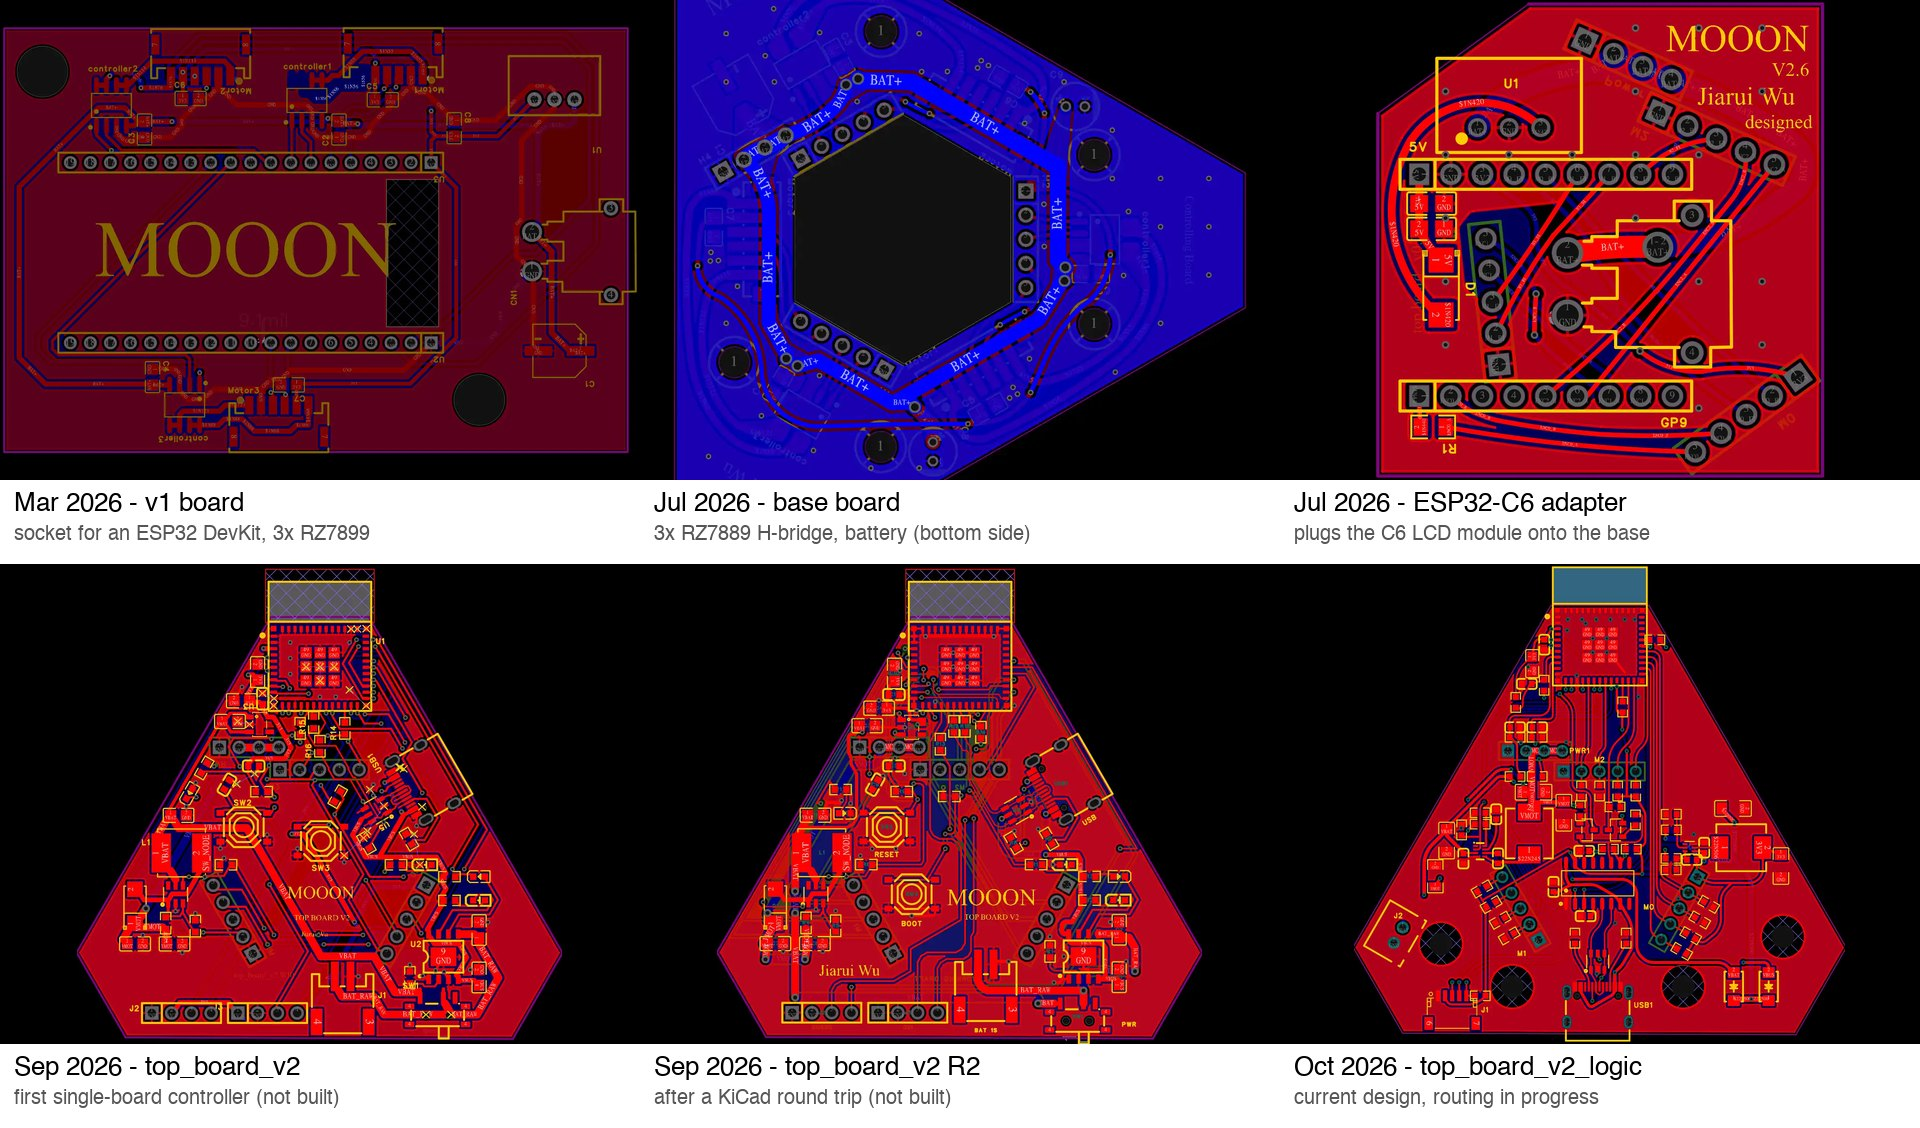
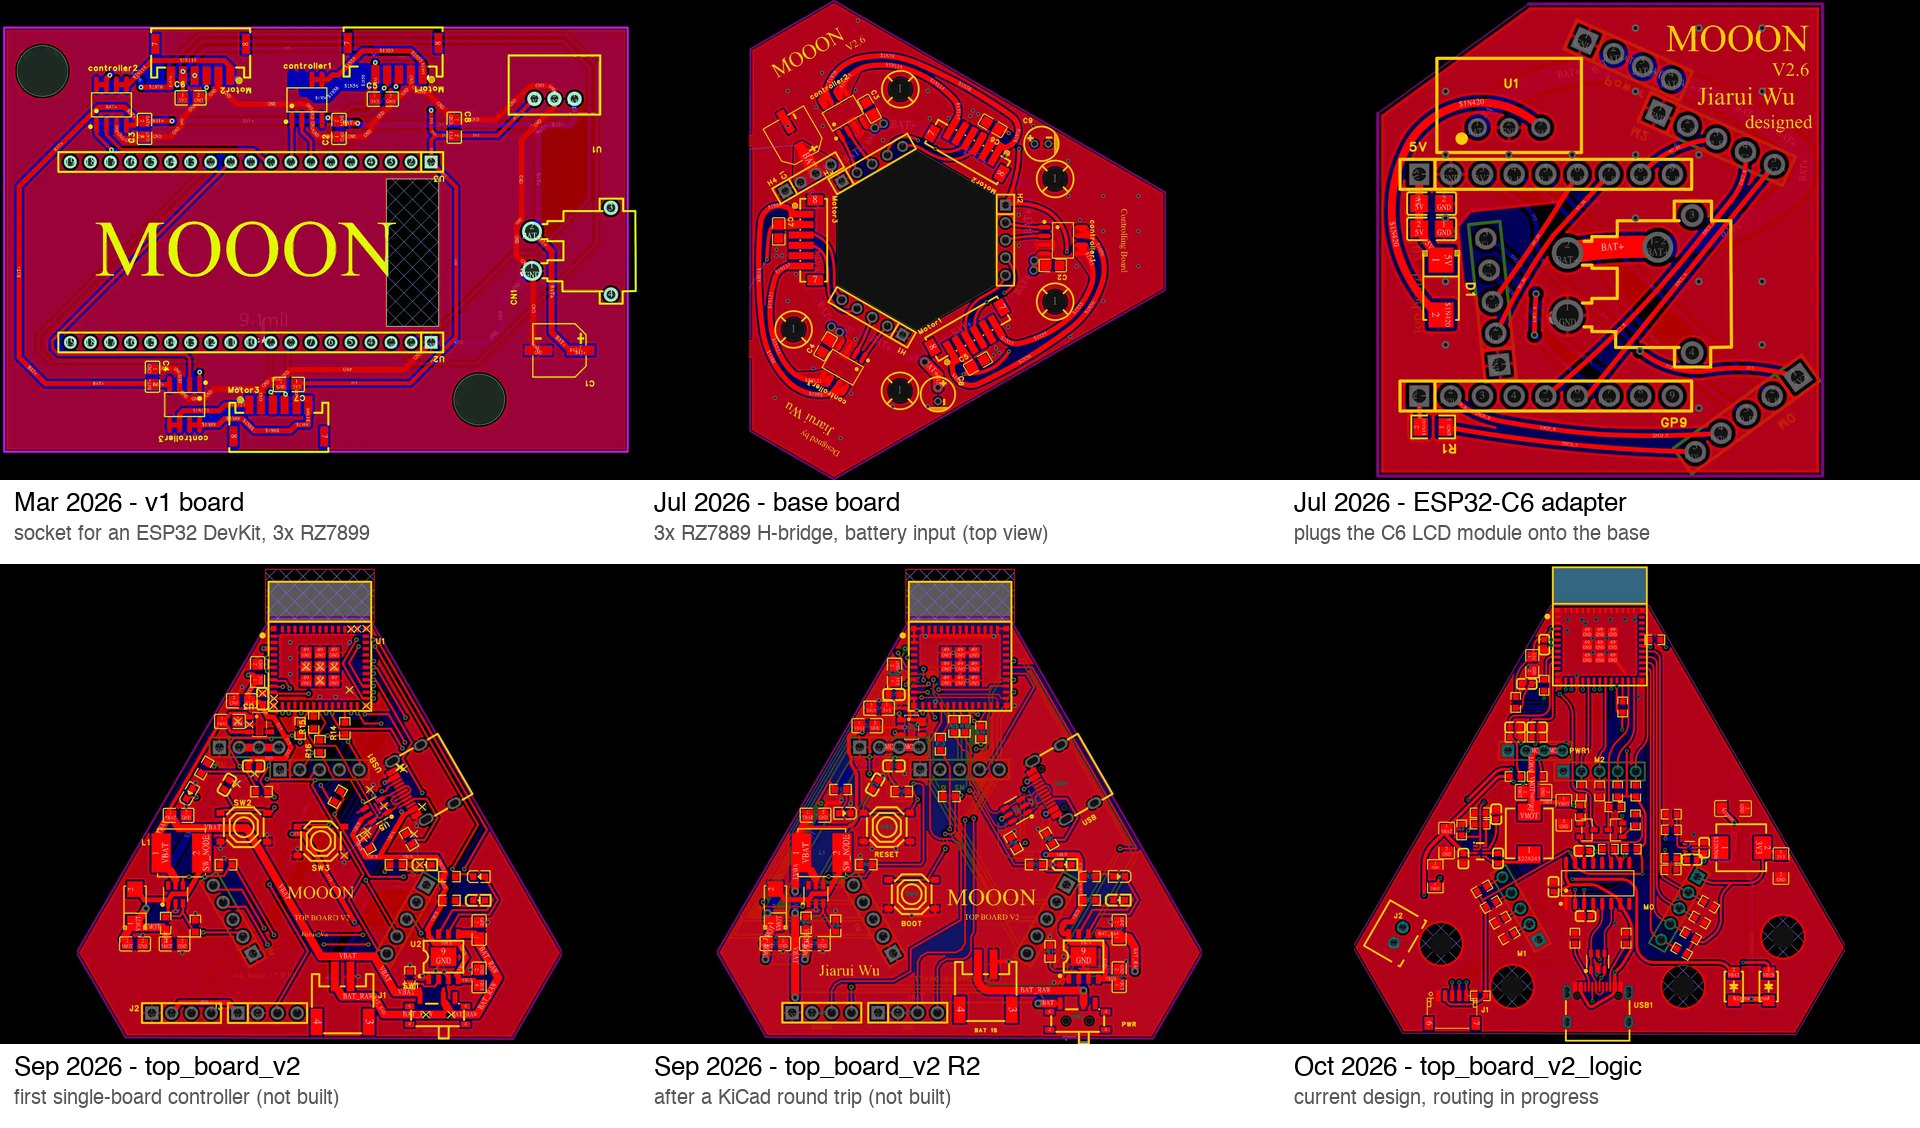
docs: clearer design-history figures
- CAD: re-rendered every Onshape version with showAllParts, so parts
  hidden when a version was saved are visible. The base board was
  already in V6, so the "workspace" panel is dropped; five distinct
  versions remain.
- PCBs: the v1 board preview (saved with inactive layers greyed out)
  gets an auto-contrast; the base board now shows its top view, cropped
  from the fabrication panel, instead of its bottom-view preview.

Changed region(s): [[0.0, 0.0, 0.6562, 0.4344], [0.4688, 0.4654, 0.5625, 0.4965]]

diff --git a/docs/design-history/make_figures.py b/docs/design-history/make_figures.py
@@ -13,7 +13,7 @@ import os
 import subprocess
 import zipfile
 
-from PIL import Image, ImageDraw, ImageFont
+from PIL import Image, ImageDraw, ImageFont, ImageOps
 
 HERE = os.path.dirname(os.path.abspath(__file__))
 ROOT = os.path.dirname(os.path.dirname(HERE))
@@ -22,13 +22,16 @@ FONT = "/System/Library/Fonts/Helvetica.ttc"
 
 # EasyEDA document ids in project "motor_controller"
 LOGIC_PCB, LOGIC_SCH = "d66fa5125fd977da", "047e235f224c2688"
-FAMILY = [  # (document id, caption, sub-caption)
-    ("713d18881d67b0a9", "Mar 2026 - v1 board", "socket for an ESP32 DevKit, 3x RZ7899"),
-    ("a7681f7930a373e5", "Jul 2026 - base board", "3x RZ7889 H-bridge, battery (bottom side)"),
-    ("29868d186e4fc126", "Jul 2026 - ESP32-C6 adapter", "plugs the C6 LCD module onto the base"),
-    ("c2976160f80574ea", "Sep 2026 - top_board_v2", "first single-board controller (not built)"),
-    ("1451795a9a99c5a7", "Sep 2026 - top_board_v2 R2", "after a KiCad round trip (not built)"),
-    (LOGIC_PCB, "Oct 2026 - top_board_v2_logic", "current design, routing in progress"),
+FAMILY = [  # (document id, caption, sub-caption, crop box in preview pixels, auto-contrast)
+    # The v1 preview was saved with inactive layers greyed out, so its contrast is stretched.
+    ("713d18881d67b0a9", "Mar 2026 - v1 board", "socket for an ESP32 DevKit, 3x RZ7899", None, True),
+    # The base board's own preview is a bottom view; its top view comes from the fab panel ("combine").
+    ("3e97c5cee5cd5d26", "Jul 2026 - base board", "3x RZ7889 H-bridge, battery input (top view)",
+     (752, 40, 1830, 1300), False),
+    ("29868d186e4fc126", "Jul 2026 - ESP32-C6 adapter", "plugs the C6 LCD module onto the base", None, False),
+    ("c2976160f80574ea", "Sep 2026 - top_board_v2", "first single-board controller (not built)", None, False),
+    ("1451795a9a99c5a7", "Sep 2026 - top_board_v2 R2", "after a KiCad round trip (not built)", None, False),
+    (LOGIC_PCB, "Oct 2026 - top_board_v2_logic", "current design, routing in progress", None, False),
 ]
 EVOLUTION = [  # (commit, short caption)
     ("170676d", "imported; schematic redrawn on one A3 sheet"),
@@ -100,7 +103,14 @@ def main():
     latest = previews(head)
     load = lambda data: Image.open(io.BytesIO(data)).convert("RGB")
 
-    cells = [(crop_dark(load(latest[i])), t, s) for i, t, s in FAMILY]
+    cells = []
+    for i, title, sub, box, stretch in FAMILY:
+        im = load(latest[i])
+        if box:
+            im = im.crop(box)
+        if stretch:
+            im = ImageOps.autocontrast(im, cutoff=0.5)
+        cells.append((crop_dark(im), title, sub))
     grid(cells, 3, 640, 480, 84, "black", os.path.join(HERE, "board-generations.jpg"))
 
     cells = []

diff --git a/docs/design-history/README.md b/docs/design-history/README.md
@@ -38,19 +38,20 @@ The robot is modelled in an Onshape document named "WhiteBoardBot", created on
 2026-02-08. Onshape timestamps every named version on its own servers, so
 these dates cannot be edited afterwards. Each render above is Onshape's shaded
 view of the assembly "Assembly 1" at that version, fetched through the Onshape
-API on 2026-10-28. Full-size renders are in [`cad/`](cad/).
+API on 2026-10-28 with every part shown, including parts that were hidden
+when the version was saved. Full-size renders are in [`cad/`](cad/).
 
 | Version | Created (Onshape server time, UTC) | What changed |
 |---|---|---|
 | Start | 2026-02-08 19:05 | Empty document |
 | V1 | 2026-02-13 21:26 | Off-the-shelf modules: three TB6612 driver boards and an ESP32 DevKit on a printed chassis, with 38 mm omni wheels and N20 motors |
-| V2 | 2026-02-16 02:41 | Deeper printed body with side walls |
+| V2 | 2026-02-16 02:41 | Redesigned lower printed body |
 | V3 | 2026-03-12 19:40 | The first custom PCB, imported as `3D_PCB1_2026-03-10.step` from EasyEDA, replaces the modules |
 | V4 | 2026-04-13 19:39 | New printed chassis under the v1 board |
 | V5 | 2026-07-03 21:44 | (same appearance as V4) |
-| V6 "metal bottom" | 2026-09-22 03:08 | ESP32-C6 LCD module on the custom adapter board |
+| V6 "metal bottom" | 2026-09-22 03:08 | ESP32-C6 LCD module on the custom adapter board, on the triangular base board |
 | V7 "fix the issue of gear stuck because of too tight top" | 2026-09-22 03:13 | Fixed the gears sticking because the top part was too tight |
-| Workspace | last edit 2026-10-27 | Triangular base board added under the adapter |
+| Workspace | last edit 2026-10-27 | Looks the same as V6 when every part is shown |
 
 The CAD and the circuit-board dates agree:
 - The first custom PCB was created in EasyEDA on 2026-03-09 (title block), and
@@ -63,8 +64,8 @@ The CAD and the circuit-board dates agree:
 
 | Board | Dates (from the title block) | Notes |
 |---|---|---|
-| v1 board | created 2026-03-09 | Socket for a 38-pin ESP32 DevKit and three RZ7899 drivers. Motor 1's encoder pins (GPIO36/39) picked up PWM noise, which led to the next generation. [Schematic](v1-schematic.jpg), [netlist](../../hardware/v1_base_board/). |
-| base board (`bottom_board`) | created 2026-07-01 | Triangular base with three RZ7889 H-bridges and the battery input. Still in use. |
+| v1 board | created 2026-03-09 | Socket for a 38-pin ESP32 DevKit and three RZ7899 drivers. Its saved preview had inactive layers greyed out, so its contrast is stretched in the figure. Motor 1's encoder pins (GPIO36/39) picked up PWM noise, which led to the next generation. [Schematic](v1-schematic.jpg), [netlist](../../hardware/v1_base_board/). |
+| base board (`bottom_board`) | created 2026-07-01 | Triangular base with three RZ7889 H-bridges and the battery input. Still in use. Its own preview is a bottom view, so the figure shows its top view from the fabrication panel (`combine`). |
 | ESP32-C6 adapter (`top_board`) | created 2026-07-02, updated 2026-07-03 | Carries the Waveshare ESP32-C6-LCD module. The first fabricated adapter had the M1 header footprint mirrored. The respin was brought up on 2026-09-17 and is in use now. |
 | `top_board_v2`, R2 | September 2026 | First attempts at one integrated controller board. Never fabricated. |
 | `top_board_v2_logic` | 2026-10-27 → | Current design: ESP32-C6-MINI-1, CH343G USB, 3.3 V and 6 V supplies, and on-board 2S charging. |

diff --git a/README.md b/README.md
@@ -70,7 +70,7 @@ schematic changes, with the evidence for each date.*
 
 ![Onshape CAD versions, February to October 2026](docs/design-history/cad-versions.jpg)
 
-*The robot's Onshape assembly at six of its server-timestamped versions.*
+*The robot's Onshape assembly at five of its server-timestamped versions, with every part shown.*
 
 Most of what I learned came from things that did not work. In order:
 
